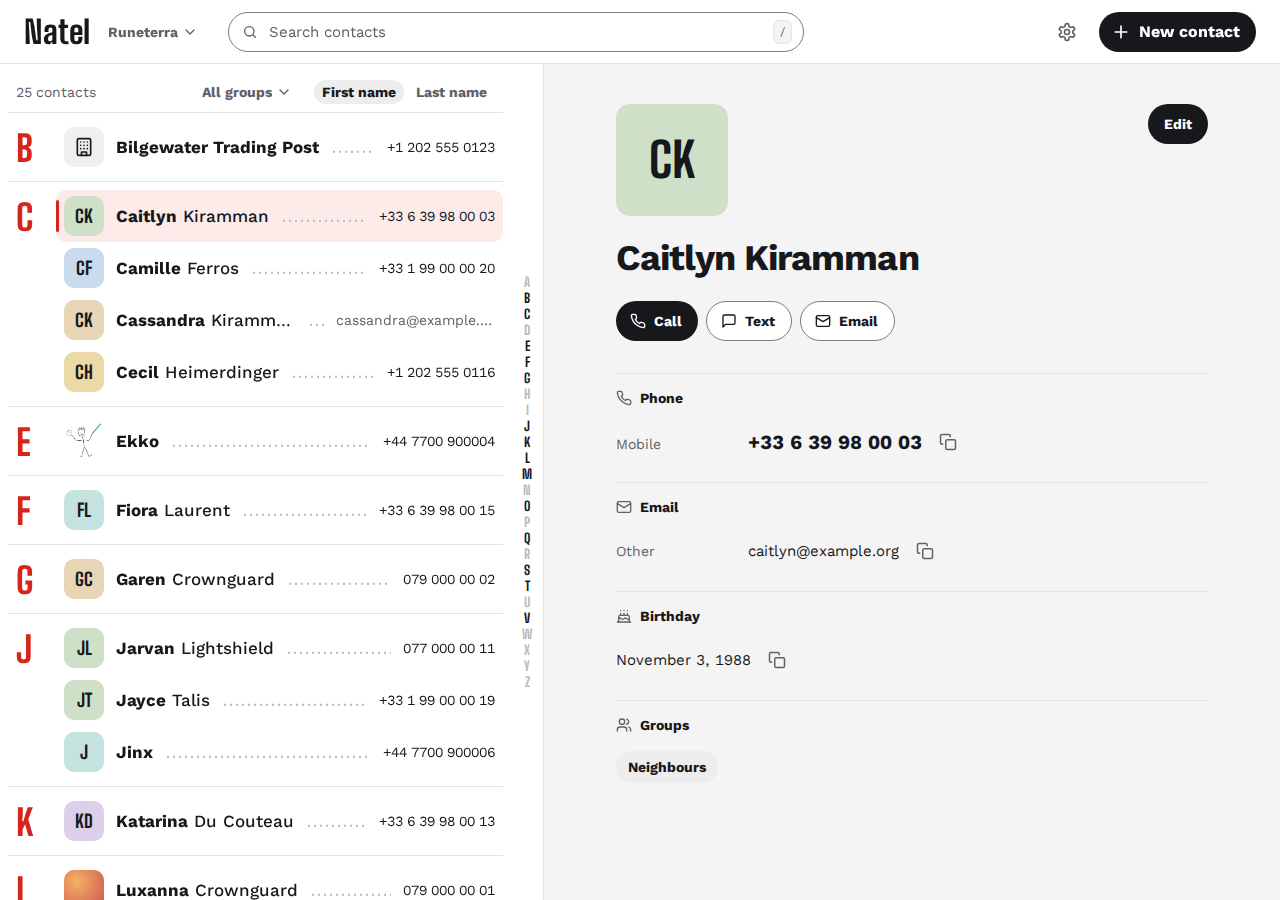
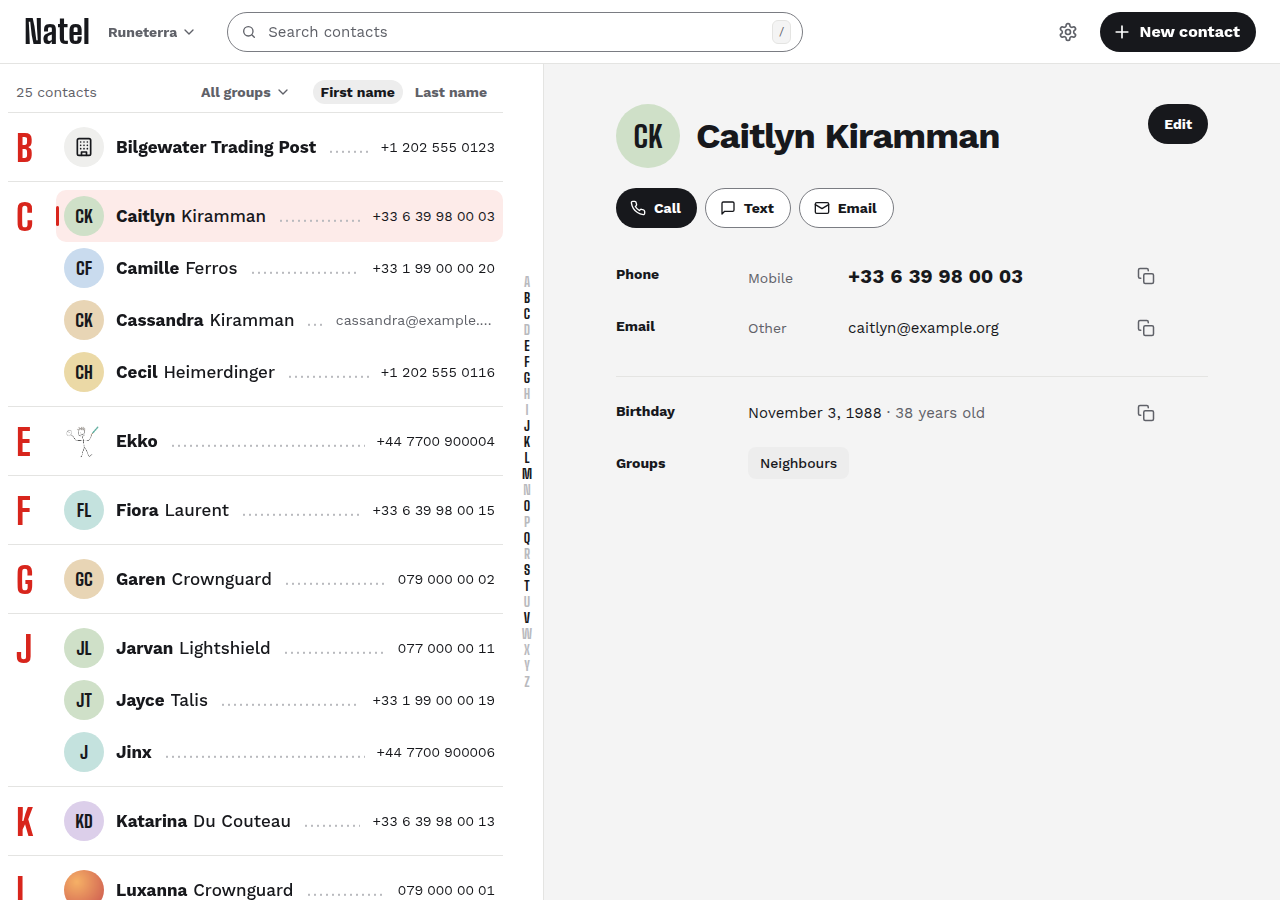
Refresh the README screenshots and social images

diff --git a/scripts/brand-images.ts b/scripts/brand-images.ts
@@ -147,8 +147,8 @@ async function main() {
     let screen: Buffer;
     try {
       screen = await capture(browser, demo, {
-        width: 1024,
-        height: 800,
+        width: 1280,
+        height: 1000,
         scale: 2,
         dark: false,
         contact: CAITLYN,
